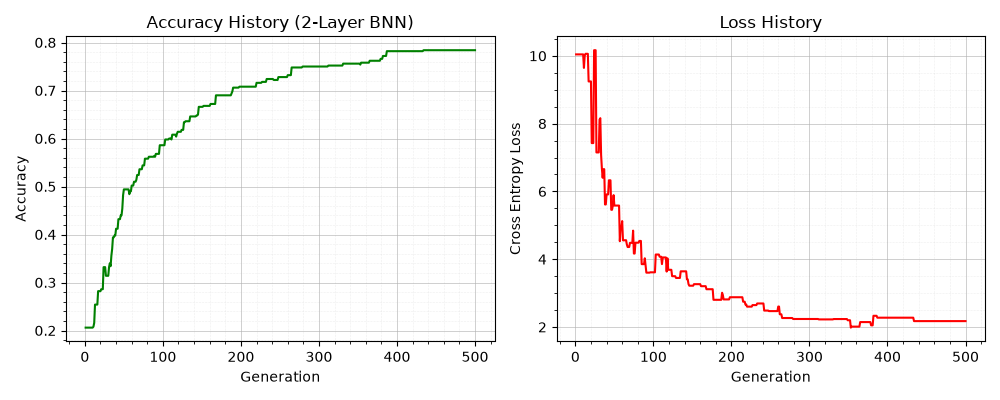
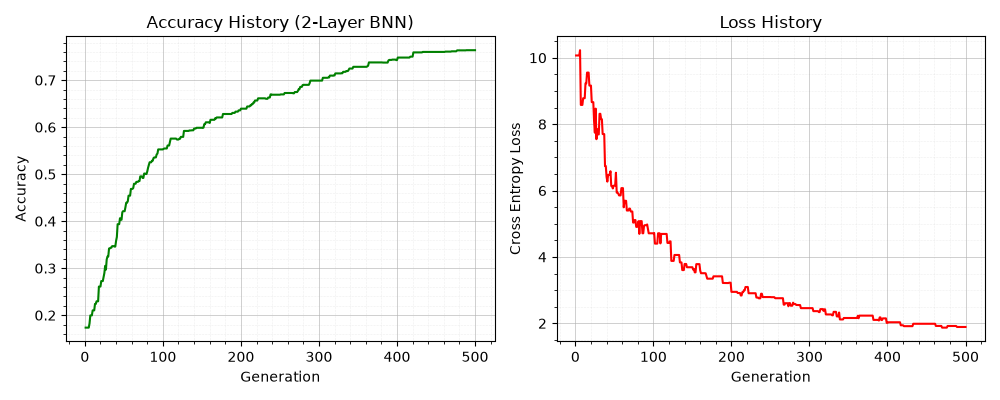
結局、サブセット500とかでも過学習してた

diff --git a/script/binarize_ga.py b/script/binarize_ga.py
@@ -202,9 +202,9 @@ def main():
         root="./data", train=True, download=True, transform=transform
     )
 
-    eval_size = 500
+    eval_size = 3000
     # 再現性のために乱数を制御
-    data_seed = 2
+    data_seed = 42
     torch.manual_seed(data_seed)
     indices = torch.randperm(len(dataset))[:eval_size]
     x_eval = torch.stack([dataset[i][0] for i in indices])
@@ -222,6 +222,13 @@ def main():
     model.fc2.weight.data = best_w[w1_size:].view(10, 64)
     model.fc1.bias.data = best_b[:64].clone()    
     model.fc2.bias.data = best_b[64:].clone()  
+
+    # テスト
+    test_indices = torch.randperm(len(dataset))[eval_size:eval_size+2000]  # 学習に使ってない範囲
+    x_test = torch.stack([dataset[i][0] for i in test_indices]) 
+    y_test = torch.tensor([dataset[i][1] for i in test_indices])
+    test_acc, test_loss = evaluate(model, best_w, best_b, x_test, y_test)
+    print(f"テストセットでのAccuracy: {test_acc*100:.2f}%")
 
     # 学習曲線の描画
     plt.figure(figsize=(10, 4))
